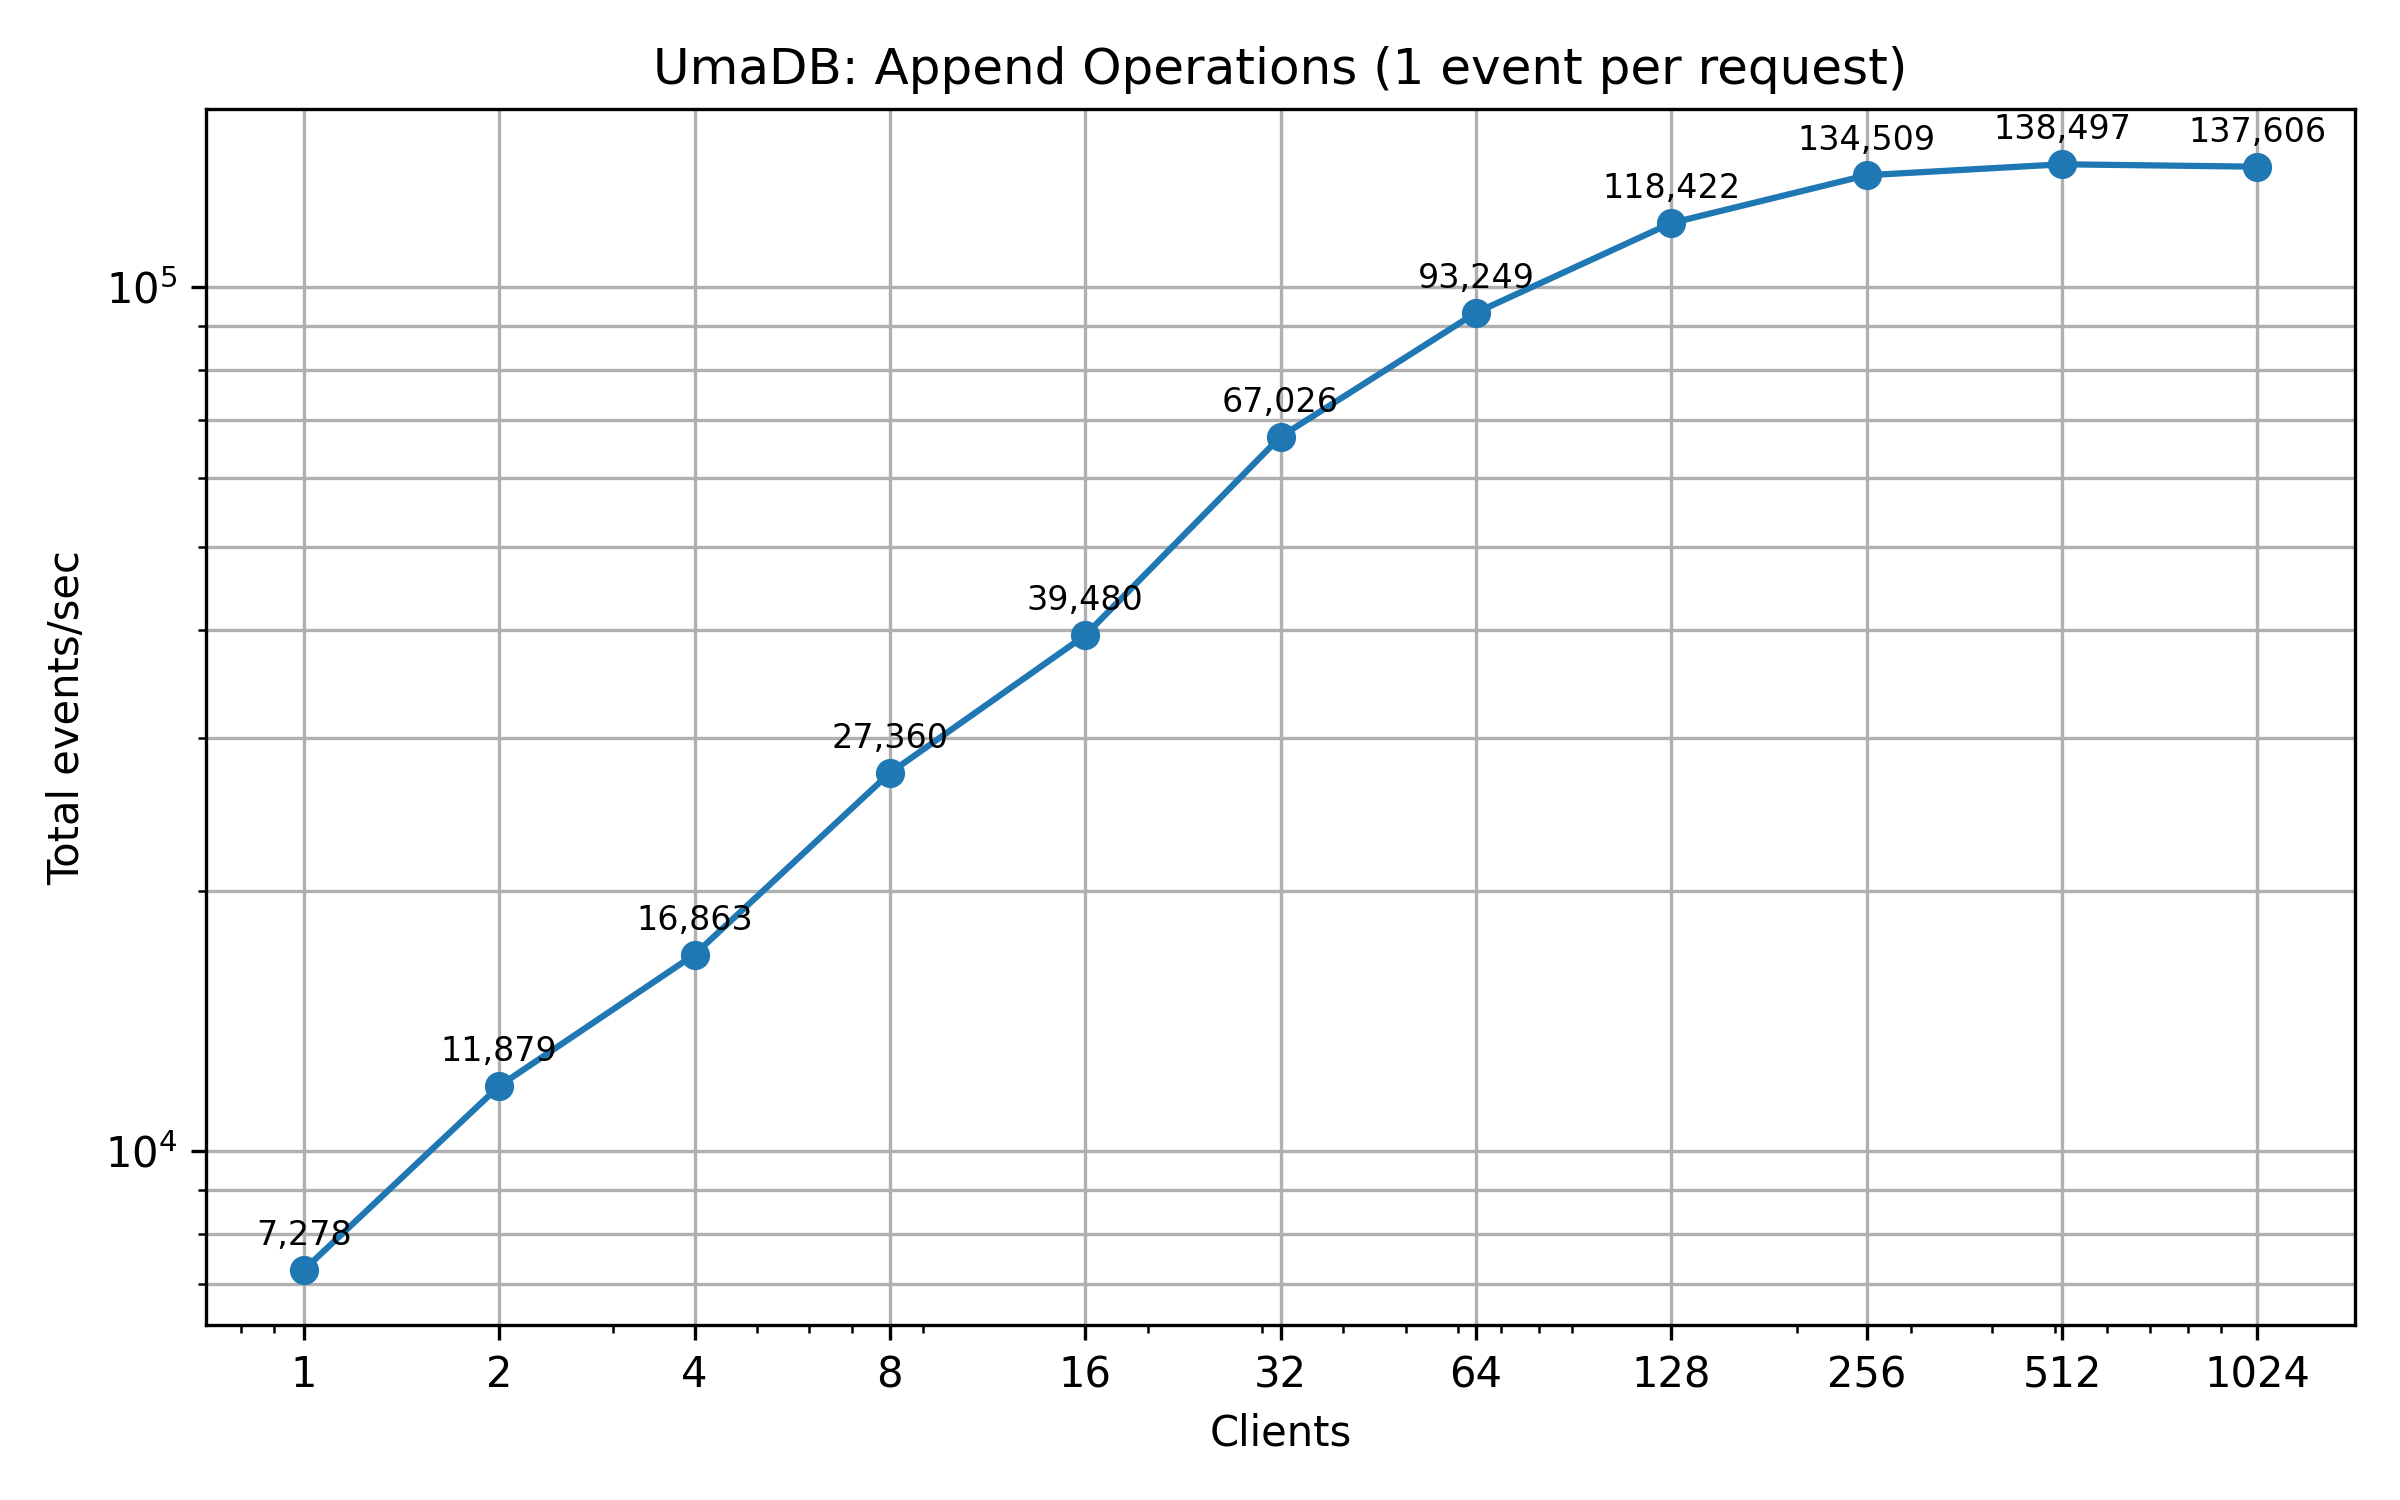
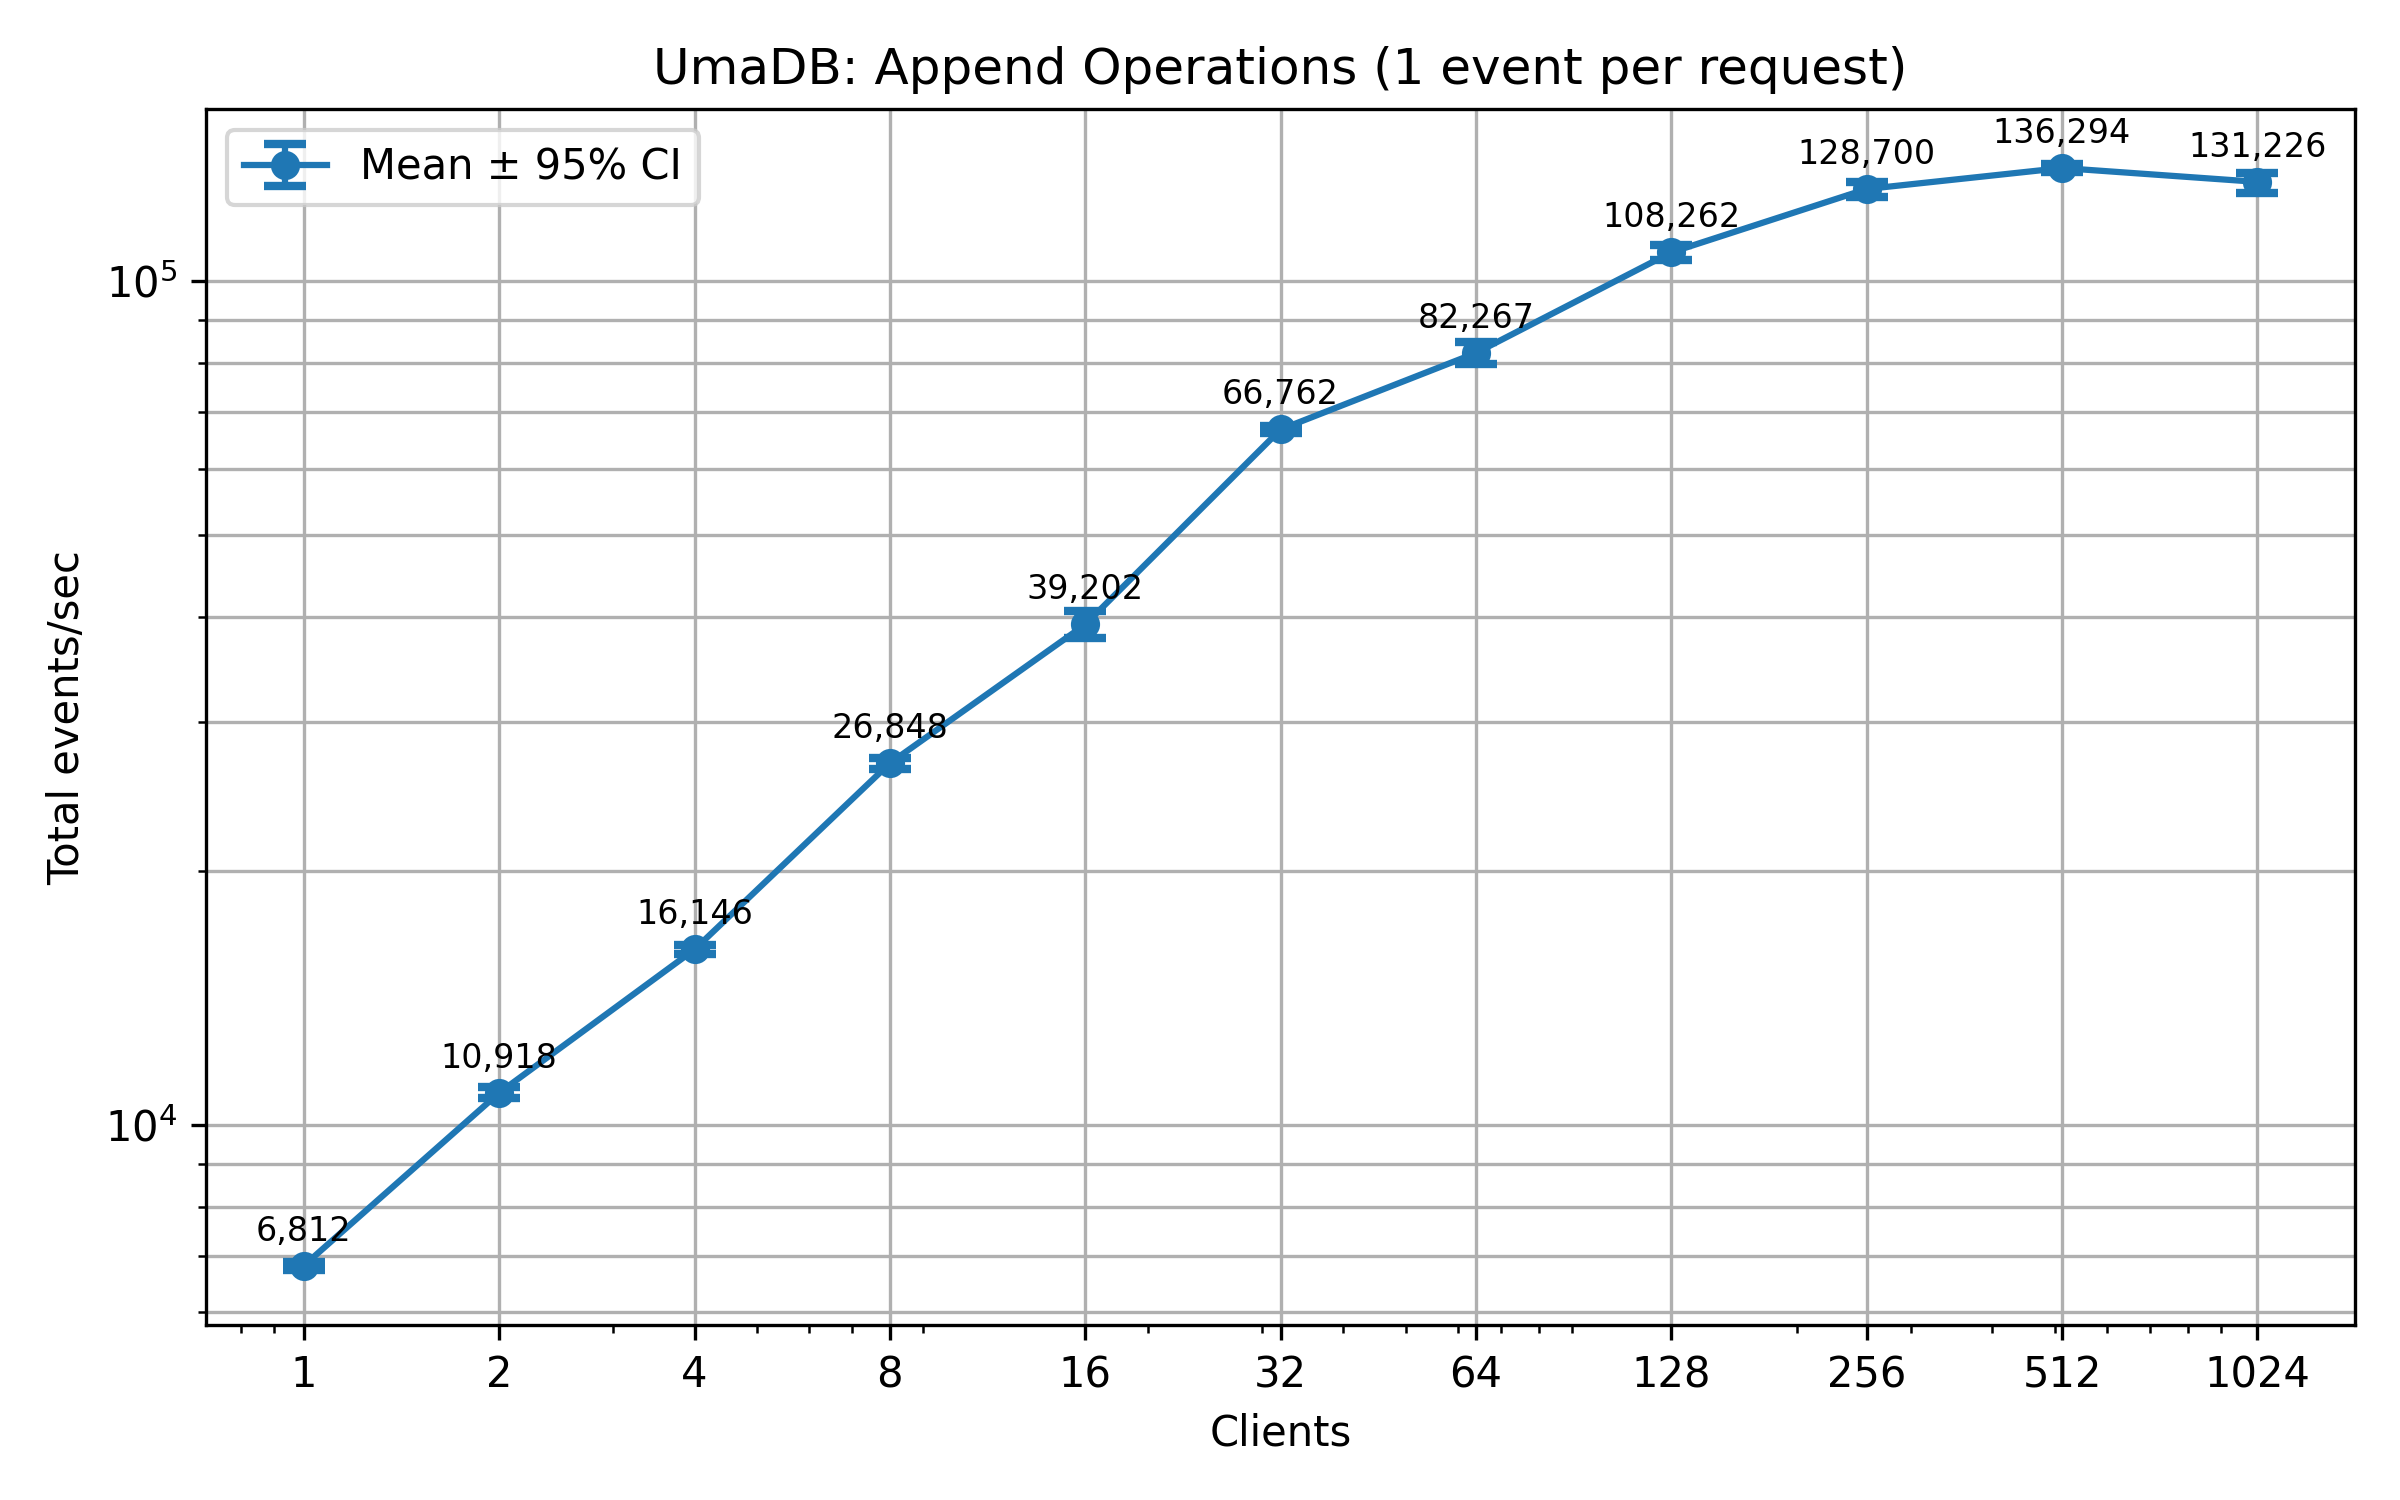
Adjusted append bench plot to show confidence intervals.

diff --git a/crates/benches/benches/grpc_append_bench_plot.py b/crates/benches/benches/grpc_append_bench_plot.py
@@ -10,6 +10,8 @@ threads = [1, 2, 4, 8, 16, 32, 64, 128, 256, 512, 1024]
 
 x = []
 throughputs = []  # events per second (total across threads)
+lower_errors = []  # lower error bars
+upper_errors = []  # upper error bars
 
 for t in threads:
     est_path = Path(f"target/criterion/grpc_append/{t}/new/estimates.json")
@@ -19,15 +21,28 @@ for t in threads:
     est = pd.read_json(est_path)
     mean_ns = est.loc['point_estimate', 'mean']
     mean_sec = mean_ns / 1e9
+    
+    # Extract confidence interval bounds for variance visualization
+    mean_ci = est.loc['confidence_interval', 'mean']
+    ci_lower_ns = mean_ci['lower_bound']
+    ci_upper_ns = mean_ci['upper_bound']
+    ci_lower_sec = ci_lower_ns / 1e9
+    ci_upper_sec = ci_upper_ns / 1e9
 
     events_total = EVENTS_PER_REQUEST * t  # total across all threads for this variant
     eps = events_total / mean_sec  # events per second
+    
+    # Calculate throughput bounds (note: inverse relationship with time)
+    eps_upper = events_total / ci_lower_sec  # lower time → higher throughput
+    eps_lower = events_total / ci_upper_sec  # upper time → lower throughput
 
     x.append(t)
     throughputs.append(eps)
+    lower_errors.append(eps - eps_lower)
+    upper_errors.append(eps_upper - eps)
 
 plt.figure(figsize=(8, 5))
-plt.plot(x, throughputs, marker='o')
+plt.errorbar(x, throughputs, yerr=[lower_errors, upper_errors], marker='o', capsize=5, capthick=2, label='Mean ± 95% CI')
 plt.xscale('log')
 plt.yscale('log')
 plt.xlabel('Clients')
@@ -37,6 +52,7 @@ plt.title(f'UmaDB: Append Operations ({EVENTS_PER_REQUEST} event{"s" if EVENTS_P
 plt.grid(True, which='both', axis='y')
 plt.grid(True, which='major', axis='x')
 plt.xticks(x, [str(t) for t in x])
+plt.legend()
 
 # Optional: annotate points
 for t, eps in zip(x, throughputs):
